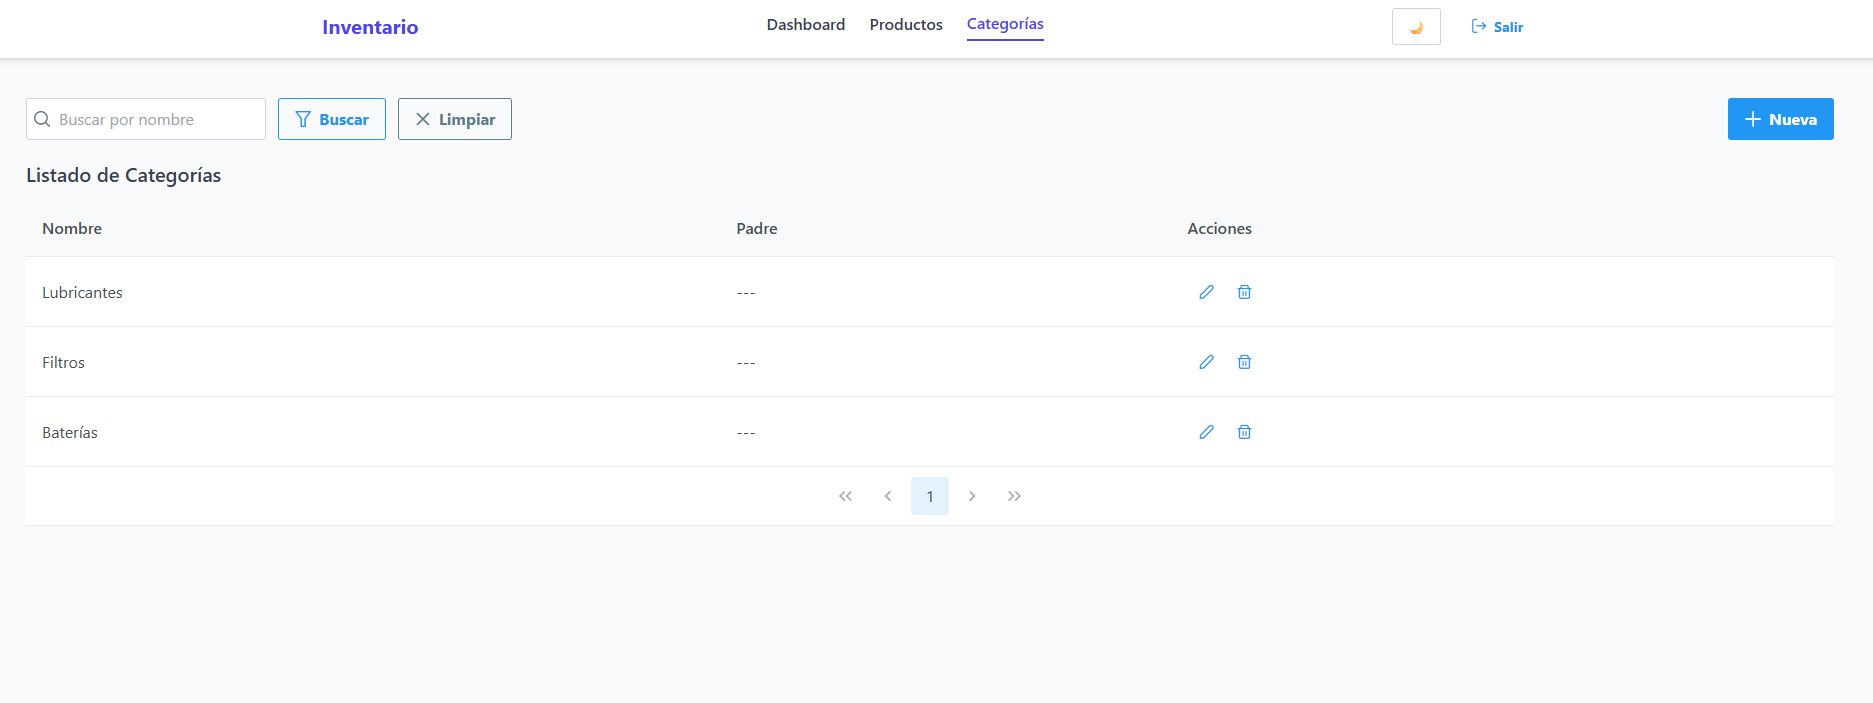
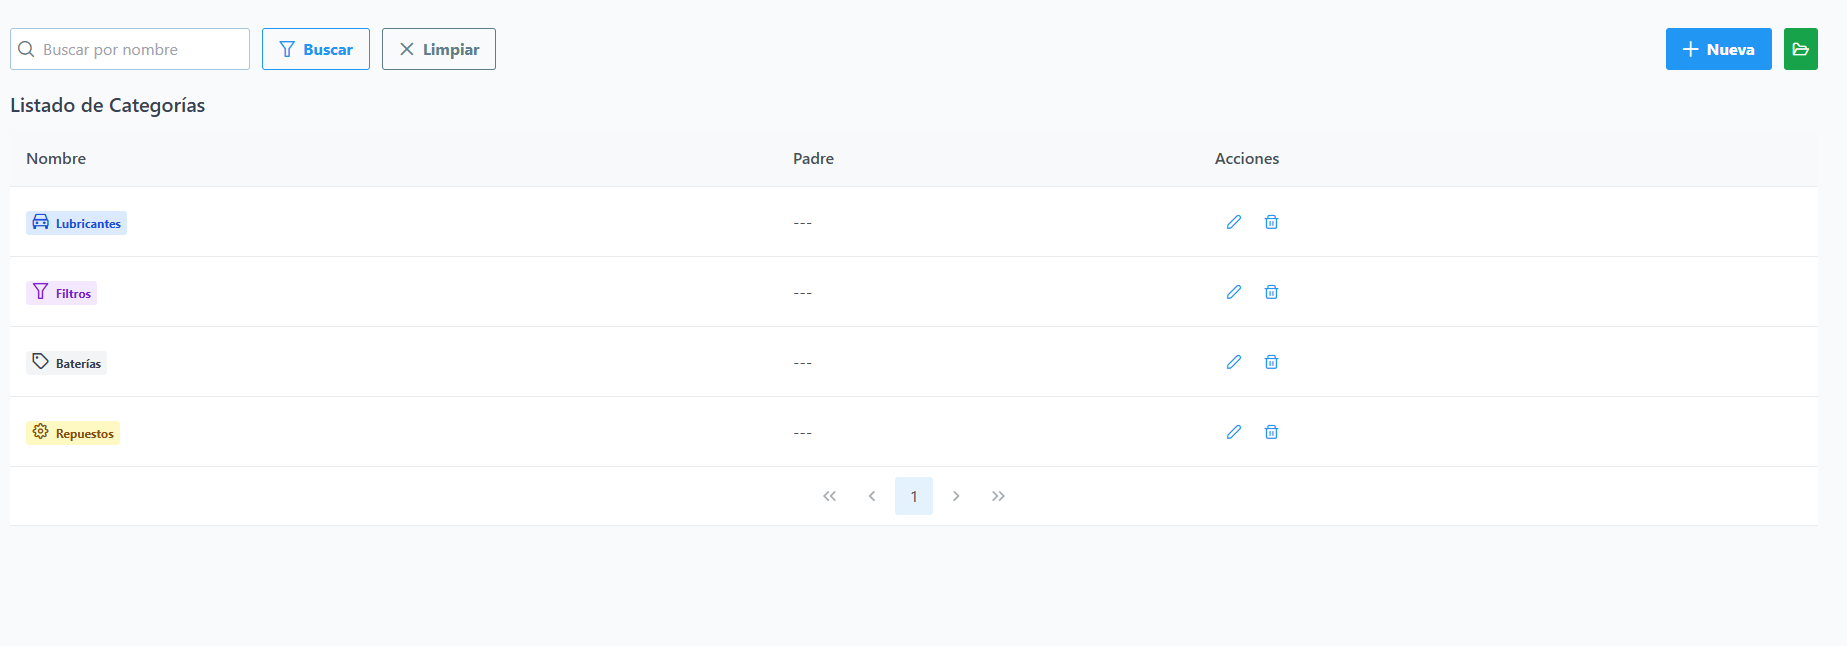
Update DEMO pictures

diff --git a/README.md b/README.md
@@ -57,7 +57,7 @@ ng serve
 ![CrearCategoria](imagenes/crearcategoria.png)
 ![Editarcategoria](imagenes/edicioncategoria.png)
 ![EliminacionCategoria](imagenes/eliminacioncategoria.png)
-
+![ArbolDeCategorias](imagenes/arbol.png)
 ## Repositorios del proyecto
 
 Este proyecto forma parte de un sistema completo
